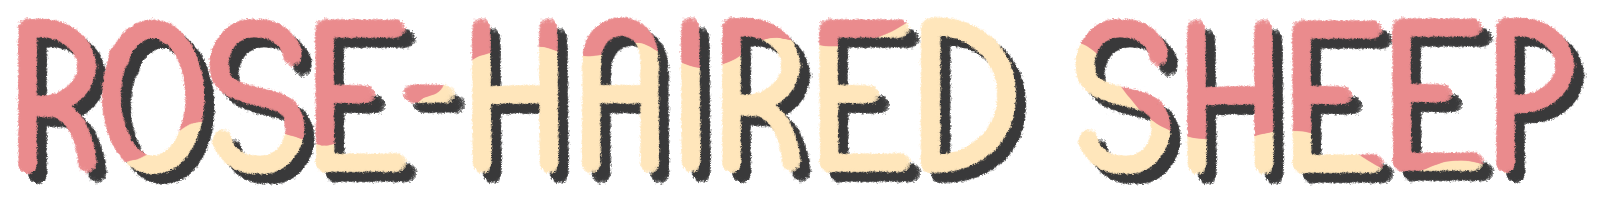
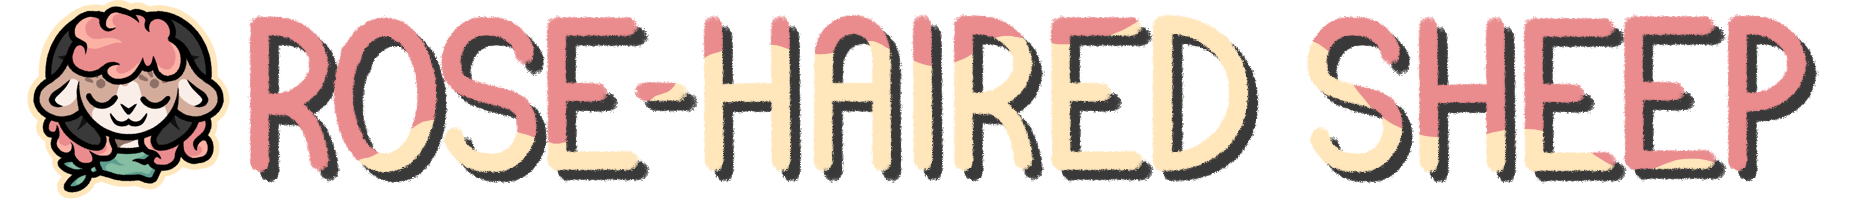
works on mobile now

diff --git a/_sass/1-tools/bourbon/css3/_flex-box.scss b/_sass/1-tools/bourbon/css3/_flex-box.scss
@@ -78,7 +78,7 @@
         display: flex;
     }
 
-    @elseif $value == "inline-flex" {
+    @else if $value == "inline-flex" {
         display: -webkit-inline-box;
         display: -moz-inline-box;
         display: inline-box;
@@ -124,16 +124,16 @@
         $value-2009: horizontal;
     }
 
-    @elseif $value == "row-reverse" {
+    @else if $value == "row-reverse" {
         $value-2009: horizontal;
         $direction: reverse;
     }
 
-    @elseif $value == column {
+    @else if $value == column {
         $value-2009: vertical;
     }
 
-    @elseif $value == "column-reverse" {
+    @else if $value == "column-reverse" {
         $value-2009: vertical;
         $direction: reverse;
     }
@@ -162,11 +162,11 @@
         $alt-value: single;
     }
 
-    @elseif $value == wrap {
+    @else if $value == wrap {
         $alt-value: multiple;
     }
 
-    @elseif $value == "wrap-reverse" {
+    @else if $value == "wrap-reverse" {
         $alt-value: multiple;
     }
 
@@ -224,15 +224,15 @@
         $alt-value: start;
     }
 
-    @elseif $value == "flex-end" {
+    @else if $value == "flex-end" {
         $alt-value: end;
     }
 
-    @elseif $value == "space-between" {
+    @else if $value == "space-between" {
         $alt-value: justify;
     }
 
-    @elseif $value == "space-around" {
+    @else if $value == "space-around" {
         $alt-value: center;
     }
 
@@ -257,7 +257,7 @@
         $alt-value: start;
     }    
 
-    @elseif $value == "flex-end" {
+    @else if $value == "flex-end" {
         $alt-value: end;
     }
 
@@ -280,7 +280,7 @@
         $value-2011: start;
     }    
 
-    @elseif $value == "flex-end" {
+    @else if $value == "flex-end" {
         $value-2011: end;
     }
 
@@ -300,15 +300,15 @@
         $value-2011: start;
     }    
 
-    @elseif $value == "flex-end" {
+    @else if $value == "flex-end" {
         $value-2011: end;
     }
 
-    @elseif $value == "space-between" {
+    @else if $value == "space-between" {
         $value-2011: justify;
     }
 
-    @elseif $value == "space-around" {
+    @else if $value == "space-around" {
         $value-2011: distribute;
     }
 

diff --git a/_includes/header.html b/_includes/header.html
@@ -1,8 +1,7 @@
 <header>
   <div class="logo">
     <a href="{{ site.github.url }}/">
-      <img src="{{ site.github.url }}/assets/img/logo.png" height="50">
-      <img src="{{ site.github.url }}/assets/img/title.png" height="50">
+      <img src="{{ site.github.url }}/assets/img/title.png" style="max-height:50px;max-width:100%;height:auto;width:auto;">
     </a>
   </div>
 </header>

diff --git a/_sass/3-sections/_header.sass b/_sass/3-sections/_header.sass
@@ -1,6 +1,6 @@
 header
   height: auto
-  width: 100%
+  max-width: 100%
   .logo
     display: flex
     align-items: center
